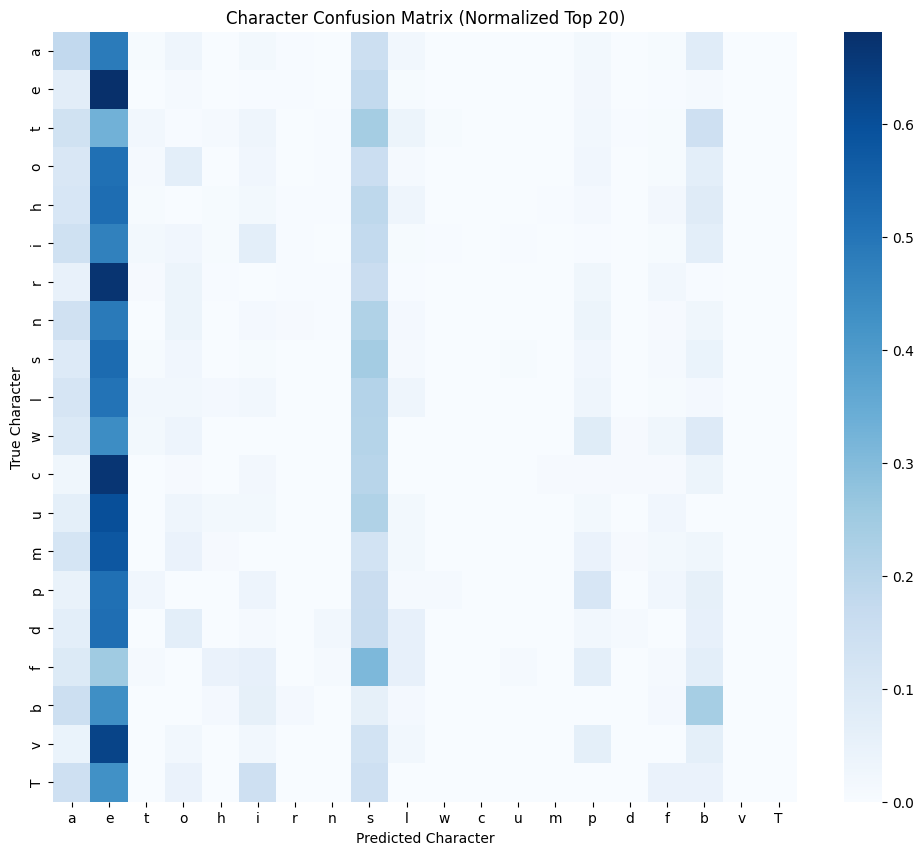
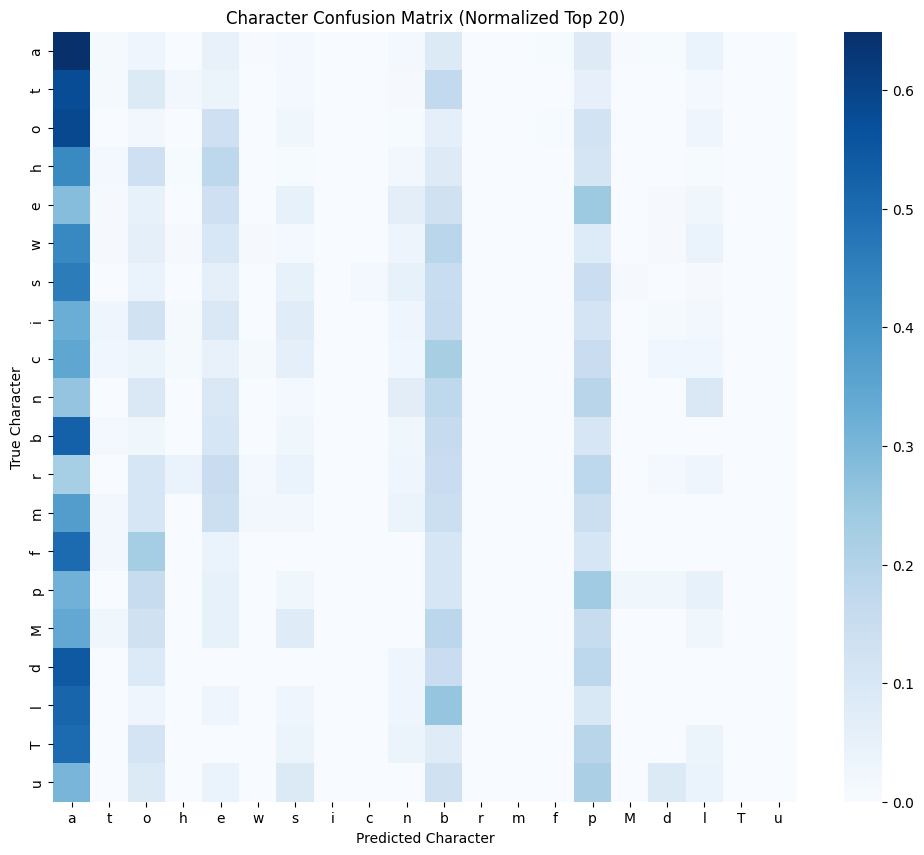
Final project completion: UI overhaul, bug fixes, and deployment prep

diff --git a/static/css/style.css b/static/css/style.css
@@ -2,53 +2,53 @@
    Variables & Theming
    ========================================= */
 :root {
-    /* Light Theme */
-    --primary: #2563EB;
-    --primary-hover: #1D4ED8;
-    --secondary: #0ea5e9;
-    --bg-base: #F8FAFC;
-    --bg-glass: rgba(255, 255, 255, 0.75);
-    --border-glass: rgba(255, 255, 255, 0.6);
-    --text-main: #0F172A;
-    --text-muted: #64748B;
-    --success: #10B981;
-    --error: #EF4444;
-    --shadow: 0 10px 40px -10px rgba(0, 0, 0, 0.08);
-    --radius: 20px;
+    /* Light Theme - Premium AI Laboratory */
+    --primary: #0066FF;
+    --primary-hover: #0052CC;
+    --secondary: #00B4D8;
+    --bg-base: #FFFFFF;
+    --bg-glass: rgba(255, 255, 255, 0.85);
+    --border-glass: rgba(0, 102, 255, 0.15);
+    --text-main: #0B192C;
+    --text-muted: #5B7083;
+    --success: #00C853;
+    --error: #FF3D00;
+    --shadow: 0 16px 40px -10px rgba(0, 102, 255, 0.1);
+    --radius: 16px;
     --transition: all 0.4s cubic-bezier(0.16, 1, 0.3, 1);
     
-    /* Background Elements Light - AI Lab Theme */
-    --bg-neural: #FDFDFD;
-    --bg-doc: #F8F9FA;
-    --bg-ocr: #F1F5F9;
-    --bg-archive: #E2E8F0;
-    --bg-tech: #0F172A; /* Footer gets dark tech even in light mode */
-    --ink-color: rgba(15, 23, 42, 0.1);
-    --scan-cyan: rgba(6, 182, 212, 0.2);
-    --node-primary: rgba(37, 99, 235, 0.15);
+    /* Background Elements Light */
+    --bg-neural: #F4F7FB;
+    --bg-doc: #F0F4F8;
+    --bg-ocr: #EBF0F5;
+    --bg-archive: #E4EBF1;
+    --bg-tech: #0A1128; /* Footer is always dark */
+    --ink-color: rgba(0, 102, 255, 0.08);
+    --scan-cyan: rgba(0, 180, 216, 0.15);
+    --node-primary: rgba(0, 102, 255, 0.25);
 }
 
 [data-theme="dark"] {
-    /* Dark Theme */
-    --primary: #8B5CF6;
-    --primary-hover: #A78BFA;
-    --secondary: #06b6d4;
-    --bg-base: #0B1220;
-    --bg-glass: rgba(15, 23, 42, 0.65);
-    --border-glass: rgba(255, 255, 255, 0.1);
-    --text-main: #F8FAFC;
-    --text-muted: #94A3B8;
-    --shadow: 0 10px 40px -10px rgba(0, 0, 0, 0.5);
+    /* Dark Theme - Advanced AI Network */
+    --primary: #3388FF;
+    --primary-hover: #66A3FF;
+    --secondary: #00E5FF;
+    --bg-base: #070B14;
+    --bg-glass: rgba(11, 18, 33, 0.75);
+    --border-glass: rgba(51, 136, 255, 0.2);
+    --text-main: #F0F4F8;
+    --text-muted: #8A9BA8;
+    --shadow: 0 16px 40px -10px rgba(0, 0, 0, 0.6);
     
-    /* Background Elements Dark - AI Lab Theme */
-    --bg-neural: #080C17;
-    --bg-doc: #0B1220;
-    --bg-ocr: #060B14;
-    --bg-archive: #04080E;
+    /* Background Elements Dark */
+    --bg-neural: #05080F;
+    --bg-doc: #070B14;
+    --bg-ocr: #090E1A;
+    --bg-archive: #0A1120;
     --bg-tech: #030509;
-    --ink-color: rgba(139, 92, 246, 0.25);
-    --scan-cyan: rgba(6, 182, 212, 0.3);
-    --node-primary: rgba(139, 92, 246, 0.3);
+    --ink-color: rgba(51, 136, 255, 0.15);
+    --scan-cyan: rgba(0, 229, 255, 0.2);
+    --node-primary: rgba(0, 229, 255, 0.4);
 }
 
 /* =========================================

diff --git a/src/model.py b/src/model.py
@@ -144,8 +144,8 @@ class HTRModel:
         """
         input_len = np.ones(predictions.shape[0]) * predictions.shape[1]
         
-        # Use Keras backend CTC decode
-        decoded, log_probs = K.ctc_decode(predictions, input_length=input_len, greedy=True)
+        # Use Keras backend CTC decode with Beam Search
+        decoded, log_probs = K.ctc_decode(predictions, input_length=input_len, greedy=False, beam_width=10)
         
         # Convert index sequence back to string
         results = []
@@ -160,9 +160,9 @@ class HTRModel:
                     res += char_map[x]
             results.append(res)
             
-            # Confidence is derived from negative log probabilities
-            # Taking exponential converts negative log prob back to a probability [0, 1]
-            conf = np.exp(-log_probs[i][0].numpy())
+            # Confidence is derived from log probabilities
+            # Taking exponential converts log prob back to a probability [0, 1]
+            conf = np.exp(log_probs[i][0].numpy())
             confidences.append(float(conf))
             
         return results, confidences

diff --git a/src/dataset_loader.py b/src/dataset_loader.py
@@ -99,6 +99,20 @@ class DatasetLoader:
         
         # Batch and prefetch
         dataset = dataset.batch(self.batch_size)
+        
+        if is_training:
+            data_augmentation = tf.keras.Sequential([
+                tf.keras.layers.RandomRotation(factor=(-0.02, 0.02), fill_mode='constant', fill_value=0.0),
+                tf.keras.layers.RandomTranslation(height_factor=0.05, width_factor=0.05, fill_mode='constant', fill_value=0.0),
+                # No aggressive shear/zoom to preserve handwriting readability
+            ])
+            
+            def augment_batch(inputs, targets):
+                inputs['image_input'] = data_augmentation(inputs['image_input'], training=True)
+                return inputs, targets
+                
+            dataset = dataset.map(augment_batch, num_parallel_calls=AUTOTUNE)
+            
         dataset = dataset.prefetch(buffer_size=AUTOTUNE)
         
         return dataset

diff --git a/src/rnn_module.py b/src/rnn_module.py
@@ -57,14 +57,14 @@ class RNNSequenceLearner:
         # First Bidirectional LSTM Layer
         # return_sequences=True is critical for CTC Loss to map each time step to characters
         lstm_1 = layers.Bidirectional(
-            layers.LSTM(self.lstm_units, return_sequences=True, dropout=0.25),
+            layers.LSTM(self.lstm_units, return_sequences=True, dropout=0.3),
             name="bilstm_1"
         )(inputs)
         
         # Second Bidirectional LSTM Layer
         # Stacking a second layer allows the model to learn more complex sequence semantics
         lstm_2 = layers.Bidirectional(
-            layers.LSTM(self.lstm_units, return_sequences=True, dropout=0.25),
+            layers.LSTM(self.lstm_units, return_sequences=True, dropout=0.3),
             name="bilstm_2"
         )(lstm_1)
         

diff --git a/src/trainer.py b/src/trainer.py
@@ -108,7 +108,7 @@ class ModelTrainer:
         callbacks = [
             EarlyStopping(
                 monitor='val_loss', 
-                patience=2, 
+                patience=8, 
                 restore_best_weights=True,
                 verbose=1
             ),
@@ -129,7 +129,7 @@ class ModelTrainer:
             ReduceLROnPlateau(
                 monitor='val_loss', 
                 factor=0.5, 
-                patience=5, 
+                patience=3, 
                 min_lr=1e-6,
                 verbose=1
             ),

diff --git a/config.py b/config.py
@@ -17,8 +17,8 @@ class Config:
     # Model Configuration
     IMAGE_WIDTH = int(os.environ.get('IMAGE_WIDTH', 128))
     IMAGE_HEIGHT = int(os.environ.get('IMAGE_HEIGHT', 32))
-    BATCH_SIZE = int(os.environ.get('BATCH_SIZE', 64))
-    EPOCHS = int(os.environ.get('EPOCHS', 10))
+    BATCH_SIZE = int(os.environ.get('BATCH_SIZE', 32))
+    EPOCHS = 30
     MAX_TEXT_LENGTH = int(os.environ.get('MAX_TEXT_LENGTH', 32))
     VOCAB_SIZE = int(os.environ.get('VOCAB_SIZE', 80))
     

diff --git a/src/cnn_extractor.py b/src/cnn_extractor.py
@@ -76,7 +76,7 @@ class CNNFeatureExtractor:
         x = layers.MaxPooling2D(pool_size=(2, 1), name="pool_5")(x)  # H: 1, W: 32
         
         # Regularization
-        x = layers.Dropout(0.2, name="dropout")(x)
+        x = layers.Dropout(0.3, name="dropout")(x)
         
         # The output shape here is (Batch, 1, 32, 256)
         # We need to squeeze the height dimension out to make it a sequence of 32 time steps, 

diff --git a/train.py b/train.py
@@ -43,7 +43,7 @@ def main():
 
     # 4. Initialize Trainer
     logger.info("Initializing Model Trainer...")
-    trainer = ModelTrainer(resume_training=False)
+    trainer = ModelTrainer(resume_training=True)
     
     # 5. Train Model
     logger.info("Starting Training...")
